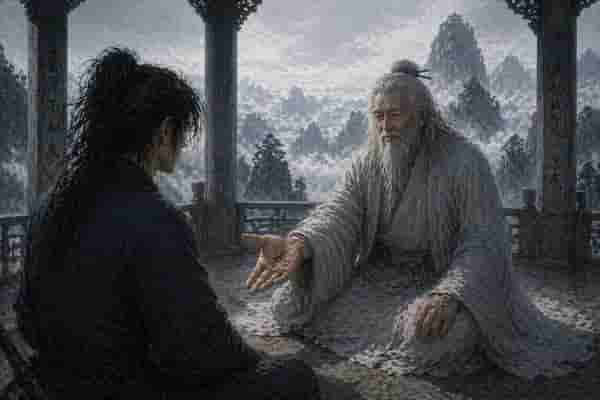
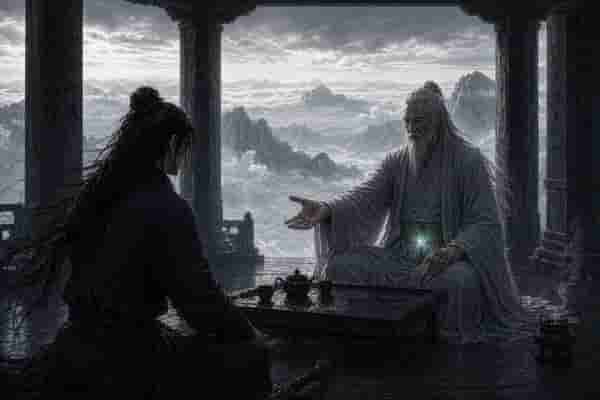
fix: progressive image loading shows LQ thumbnail immediately, recompress mysterious-elder-bond-3
- loadProgressiveImg: set img.src = lowSrc directly (not via probe) so thumbnail shows at once
- HQ still uses Image probe, swaps in on load
- Recompressed mysterious-elder-bond-3: 2506KB PNG → 211KB HQ + 7KB LQ

diff --git a/js/ui.js b/js/ui.js
@@ -1,32 +1,27 @@
 // ui.js - UI rendering and DOM management
 
-// Both probes start immediately. LQ (3-11 KB) nearly always beats HQ, so the
-// dim placeholder appears at once. When HQ arrives, swap and restore opacity.
+// Progressive loading: show LQ thumbnail immediately, swap to HQ when ready.
+// Placeholder shown only if LQ itself fails (image truly missing).
 // fallbackSrc: shown on total failure; null hides the element.
 function loadProgressiveImg(img, hqSrc, fallbackSrc) {
     const lowSrc = hqSrc.replace(/(assets\/[^/]+\/)([^/]+)\.\w+$/, '$1low/$2.jpg');
-    const onError = fallbackSrc
-        ? () => { img.src = fallbackSrc; img.classList.remove('img-lq'); img.onerror = null; }
-        : () => { img.style.display = 'none'; };
 
-    // Clear stale image without pre-loading placeholder — placeholder only shown on actual error
-    img.removeAttribute('src');
-    img.classList.remove('img-lq');
-
-    let hqSettled = false;
+    // Show LQ immediately while HQ loads in the background
+    img.classList.add('img-lq');
+    img.onerror = () => {
+        img.onerror = null;
+        if (fallbackSrc) { img.src = fallbackSrc; img.classList.remove('img-lq'); }
+        else img.style.display = 'none';
+    };
+    img.src = lowSrc;
 
     const hqProbe = new Image();
     hqProbe.onload = () => {
-        hqSettled = true;
         img.src = hqSrc;
         img.classList.remove('img-lq');
+        img.onerror = null;
     };
-    hqProbe.onerror = () => { hqSettled = true; onError(); };
     hqProbe.src = hqSrc;
-
-    const lqProbe = new Image();
-    lqProbe.onload = () => { if (!hqSettled) { img.src = lowSrc; img.classList.add('img-lq'); } };
-    lqProbe.src = lowSrc;
 }
 
 const ATTR_NAMES = {

diff --git a/index.html b/index.html
@@ -4,7 +4,7 @@
     <meta charset="UTF-8">
     <meta name="viewport" content="width=device-width, initial-scale=1.0, maximum-scale=1.0">
     <title>轮回江湖</title>
-    <link rel="stylesheet" href="css/styles.css?v=0.21.63">
+    <link rel="stylesheet" href="css/styles.css?v=0.21.64">
 </head>
 <body>
 
@@ -203,14 +203,14 @@ if (localStorage.getItem('wuxia_save')) {
         <div class="loading-text">读取存档中</div>`;
 }
 </script>
-<script src="js/audio.js?v=0.21.63"></script>
-<script src="js/character.js?v=0.21.63"></script>
-<script src="js/npc.js?v=0.21.63"></script>
-<script src="js/combat.js?v=0.21.63"></script>
-<script src="js/rebirth.js?v=0.21.63"></script>
-<script src="js/engine.js?v=0.21.63"></script>
-<script src="js/gallery.js?v=0.21.63"></script>
-<script src="js/ui.js?v=0.21.63"></script>
+<script src="js/audio.js?v=0.21.64"></script>
+<script src="js/character.js?v=0.21.64"></script>
+<script src="js/npc.js?v=0.21.64"></script>
+<script src="js/combat.js?v=0.21.64"></script>
+<script src="js/rebirth.js?v=0.21.64"></script>
+<script src="js/engine.js?v=0.21.64"></script>
+<script src="js/gallery.js?v=0.21.64"></script>
+<script src="js/ui.js?v=0.21.64"></script>
 <script>
 (async function() {
     await Engine.init();

diff --git a/sw.js b/sw.js
@@ -1,6 +1,6 @@
 // Service worker: cache-first for all image assets
 // Bump CACHE_NAME when images are updated to force re-download
-const CACHE_NAME = 'wuxia-v0.21.63';
+const CACHE_NAME = 'wuxia-v0.21.64';
 
 // Install: activate immediately without blocking on image downloads
 // Images are cached lazily on first access via the fetch handler below

diff --git a/PROGRESS.md b/PROGRESS.md
@@ -1,6 +1,13 @@
 # 轮回江湖 — 开发进度
 
-## 当前版本：v0.21.63
+## 当前版本：v0.21.64
+
+---
+
+### v0.21.64（2026-04-24）
+
+- 修复渐进式图片加载：低清缩略图现在立即显示（直接设置 img.src），不再等待探针加载而出现空白
+- 重新压缩 mysterious-elder-bond-3 插画（更新原图后重新生成 HQ/LQ）
 
 ---
 

diff --git a/README.md b/README.md
@@ -1,4 +1,4 @@
-# 轮回江湖（开发中）v0.21.63
+# 轮回江湖（开发中）v0.21.64
 
 > 武侠风世界线回溯类文字冒险游戏 · 纯 HTML/CSS/JS · GitHub Pages 可直接部署
 
